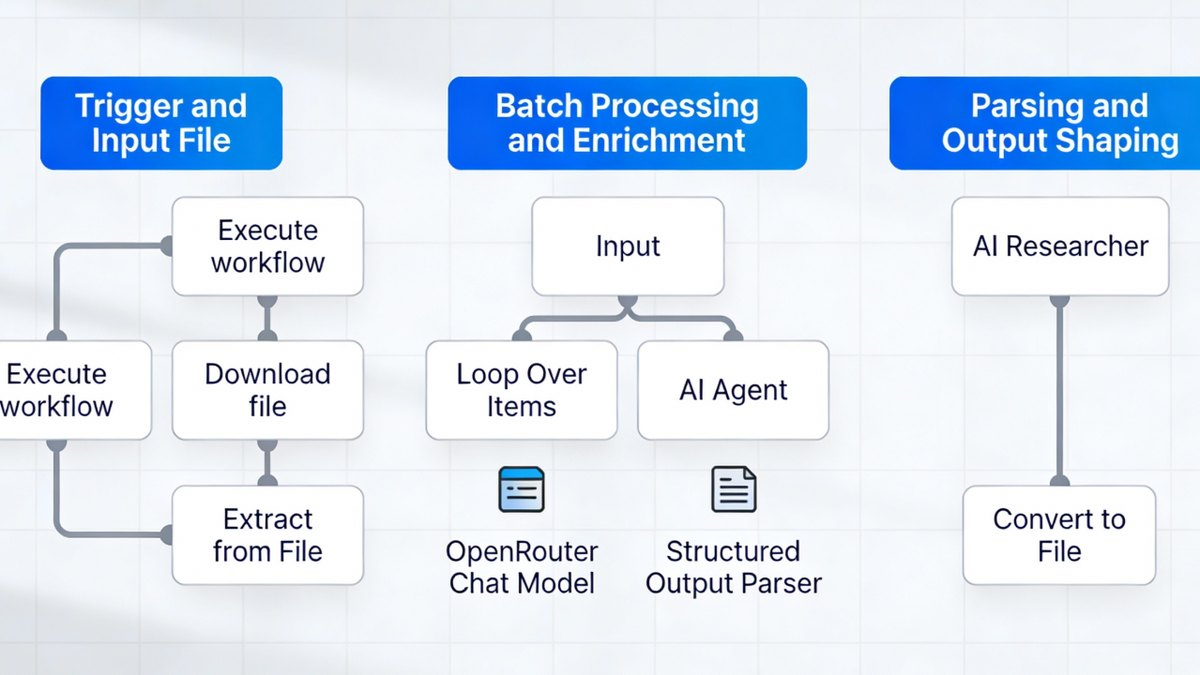
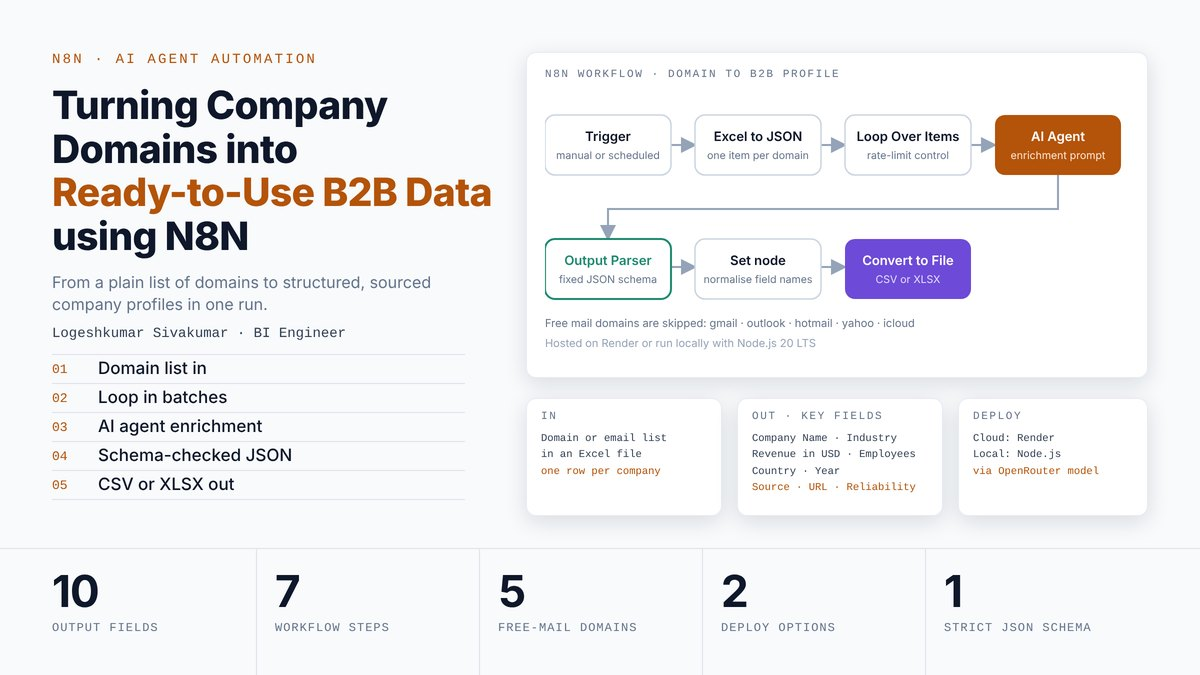
New intro headline, clickable article and report cards, updated N8N cover

diff --git a/index.html b/index.html
@@ -4,8 +4,8 @@
   <meta charset="UTF-8" />
   <meta name="viewport" content="width=device-width, initial-scale=1.0" />
   <title>Logeshkumar Sivakumar | AI-enabled BI and deployment engineer</title>
-  <meta name="description" content="Logeshkumar Sivakumar: Business Intelligence Engineer who takes AI solutions from a customer problem to a working result, using Claude, Microsoft Fabric and Power BI." />
-  <link rel="stylesheet" href="css/style.css?v=9" />
+  <meta name="description" content="Logeshkumar Sivakumar: Business Intelligence Engineer who builds AI solutions from his own ideas and industry use cases using Claude, Microsoft Fabric and Power BI, and has presented 50+ Inforiver and Fabric Plan demos and POCs to customers." />
+  <link rel="stylesheet" href="css/style.css?v=15" />
 </head>
 <body>
   <a class="skip" href="#main">Skip to content</a>
@@ -34,8 +34,8 @@
           <div class="avatar"><img src="assets/profile.jpg?v=3" alt="" onerror="this.replaceWith('LS')" /></div>
           <div><strong>Logeshkumar Sivakumar</strong><span>Business Intelligence Engineer · Lumel Technologies</span></div>
         </div>
-        <h1>I take AI solutions from a customer's problem to a working result.</h1>
-        <p class="tag">I build with Claude and check every result before it reaches a customer. I have been sole technical presenter on 50+ demos and POCs, technical contact on a Cognos to Power BI migration, and built a Fabric sales report that cut manual reporting by about 70%. <span style="white-space:nowrap">DP-600</span> and <span style="white-space:nowrap">DP-700</span> certified.</p>
+        <h1>I build AI solutions from my own ideas, and I can demo and support them with customers.</h1>
+        <p class="tag">I build with Claude and check every result before I use it. I have been sole technical presenter on 50+ Inforiver and Fabric Plan demos and POCs, technical contact on a Cognos to Power BI migration, and built a Fabric sales report that cut manual reporting by about 70%. <span style="white-space:nowrap">DP-600</span> and <span style="white-space:nowrap">DP-700</span> certified.</p>
         <p class="hire"><strong>Hire me as</strong> <span>AI-enabled BI engineer</span> <span>AI deployment engineer</span></p>
         <div class="cta">
           <a href="#contact" class="btn solid">Get in touch</a>
@@ -118,9 +118,9 @@
       <h3 class="sub dash">Power BI dashboards</h3>
       <p class="note"><strong>Created before the AI era.</strong> Every visual, idea and feature in these dashboards was designed by hand, learned from LinkedIn, YouTube, blogs, a Udemy course and community forums.</p>
       <div class="grid g3 snap" role="region" aria-label="Power BI dashboards">
-        <article class="card mini"><time>Mar 2023</time><h3>IPL Player and Team Stats</h3><p class="muted">Player and team performance across IPL seasons, modelled from several sources.</p><a href="https://app.powerbi.com/view?r=eyJrIjoiMzg2MTMwNjYtOTdhOC00YjBkLWI5OTMtNGVkYzI2MjIxMDVlIiwidCI6ImRmODY3OWNkLWE4MGUtNDVkOC05OWFjLWM4M2VkN2ZmOTVhMCJ9" target="_blank" rel="noopener">View live report</a></article>
-        <article class="card mini"><time>Feb 2023</time><h3>Bangladesh Property Finder</h3><p class="muted">Property exploration with pricing trends, location filters and listing analytics.</p><a href="https://app.powerbi.com/view?r=eyJrIjoiMmRjMmRhMDMtMDQ4YS00MjVjLWE0M2MtYjY3OThlNDRmN2ViIiwidCI6ImRmODY3OWNkLWE4MGUtNDVkOC05OWFjLWM4M2VkN2ZmOTVhMCJ9" target="_blank" rel="noopener">View live report</a></article>
-        <article class="card mini"><time>Oct 2022</time><h3>FIFA World Cup Stats</h3><p class="muted">World Cup history: group stage to finals, top scorers, hosts and match outcomes.</p><a href="https://app.powerbi.com/view?r=eyJrIjoiOTI0YWNmNWMtMmM1ZS00YjE2LWFiNDQtZmJmYWJhODRkNTUyIiwidCI6ImRmODY3OWNkLWE4MGUtNDVkOC05OWFjLWM4M2VkN2ZmOTVhMCJ9" target="_blank" rel="noopener">View live report</a></article>
+        <article class="card mini"><time>Mar 2023</time><h3><a class="stretch" href="https://app.powerbi.com/view?r=eyJrIjoiMzg2MTMwNjYtOTdhOC00YjBkLWI5OTMtNGVkYzI2MjIxMDVlIiwidCI6ImRmODY3OWNkLWE4MGUtNDVkOC05OWFjLWM4M2VkN2ZmOTVhMCJ9" target="_blank" rel="noopener">IPL Player and Team Stats</a></h3><p class="muted">Player and team performance across IPL seasons, modelled from several sources.</p><span class="go" aria-hidden="true">View live report</span></article>
+        <article class="card mini"><time>Feb 2023</time><h3><a class="stretch" href="https://app.powerbi.com/view?r=eyJrIjoiMmRjMmRhMDMtMDQ4YS00MjVjLWE0M2MtYjY3OThlNDRmN2ViIiwidCI6ImRmODY3OWNkLWE4MGUtNDVkOC05OWFjLWM4M2VkN2ZmOTVhMCJ9" target="_blank" rel="noopener">Bangladesh Property Finder</a></h3><p class="muted">Property exploration with pricing trends, location filters and listing analytics.</p><span class="go" aria-hidden="true">View live report</span></article>
+        <article class="card mini"><time>Oct 2022</time><h3><a class="stretch" href="https://app.powerbi.com/view?r=eyJrIjoiOTI0YWNmNWMtMmM1ZS00YjE2LWFiNDQtZmJmYWJhODRkNTUyIiwidCI6ImRmODY3OWNkLWE4MGUtNDVkOC05OWFjLWM4M2VkN2ZmOTVhMCJ9" target="_blank" rel="noopener">FIFA World Cup Stats</a></h3><p class="muted">World Cup history: group stage to finals, top scorers, hosts and match outcomes.</p><span class="go" aria-hidden="true">View live report</span></article>
       </div>
 
       <details class="more">
@@ -132,25 +132,25 @@
           <p>End-to-end pre-webinar campaigns: segmented HTML email broadcasts, personal email sequences, LinkedIn and Reddit posts, webinar polls and post-event workflows. Used across 3 Lumel product webinars.</p>
         </article>
         <article class="card mini">
-          <h3>Company Domains to B2B Data (n8n)</h3>
+          <h3><a class="stretch" href="https://github.com/Logeshkumar-10/Projects" target="_blank" rel="noopener">Company Domains to B2B Data (n8n)</a></h3>
           <p>An n8n workflow that takes a list of company domains and returns enriched, ready-to-use B2B account data.</p>
-          <a href="https://github.com/Logeshkumar-10/Projects" target="_blank" rel="noopener">Workflow on GitHub</a>
+          <span class="go" aria-hidden="true">Workflow on GitHub</span>
         </article>
         </div>
         <h3 class="sub">More Power BI dashboards</h3>
         <div class="grid g4">
-        <article class="card mini"><time>Sep 2022</time><h3>PwC Customer Churn Analysis</h3><p class="muted">Churn risk and retention insights, from the PwC Power BI job simulation on Forage.</p><a href="https://app.powerbi.com/view?r=eyJrIjoiOTFhOTQwYjQtZWY2Ni00MzAxLWI1NDItYjI5ZTUyMzQyYzNjIiwidCI6ImRmODY3OWNkLWE4MGUtNDVkOC05OWFjLWM4M2VkN2ZmOTVhMCJ9" target="_blank" rel="noopener">View live report</a></article>
-        <article class="card mini"><time>Aug 2022</time><h3>PwC Call Centre Analysis</h3><p class="muted">Customer service performance, from the PwC Power BI job simulation on Forage.</p><a href="https://app.powerbi.com/view?r=eyJrIjoiMGRmNjBlMTMtYzE2Zi00NmM5LWE2YTAtNTBiMTMyMTVkYWYxIiwidCI6ImRmODY3OWNkLWE4MGUtNDVkOC05OWFjLWM4M2VkN2ZmOTVhMCJ9" target="_blank" rel="noopener">View live report</a></article>
-        <article class="card mini"><time>Aug 2022</time><h3>Maven Space Mission Dashboard</h3><p class="muted">Global space missions: launch success rates and agencies. Maven Analytics challenge.</p><a href="https://app.powerbi.com/view?r=eyJrIjoiMWE4YmY2ZDItNDZiNS00NzlhLWJjZjYtYTgxZjE4YWM3YTE0IiwidCI6ImRmODY3OWNkLWE4MGUtNDVkOC05OWFjLWM4M2VkN2ZmOTVhMCJ9" target="_blank" rel="noopener">View live report</a></article>
-        <article class="card mini"><time>Jul 2022</time><h3>World Billionaires 2022</h3><p class="muted">Wealth distribution by industry and geography. Onyx Data challenge.</p><a href="https://app.powerbi.com/view?r=eyJrIjoiNGI3NmZkMjYtYjdiYS00MWFhLWJiM2EtMDRiZWZlNmY4NWRjIiwidCI6ImRmODY3OWNkLWE4MGUtNDVkOC05OWFjLWM4M2VkN2ZmOTVhMCJ9" target="_blank" rel="noopener">View live report</a></article>
-        <article class="card mini"><time>Apr 2022</time><h3>US E-Commerce Dashboard</h3><p class="muted">Sales trends, category performance and regional breakdown.</p><a href="https://app.powerbi.com/view?r=eyJrIjoiNzAxNGM1Y2MtMGRiNC00NWU3LWI4YTYtOGQ1NGI2NDQ5YzcyIiwidCI6ImRmODY3OWNkLWE4MGUtNDVkOC05OWFjLWM4M2VkN2ZmOTVhMCJ9" target="_blank" rel="noopener">View live report</a></article>
+        <article class="card mini"><time>Sep 2022</time><h3><a class="stretch" href="https://app.powerbi.com/view?r=eyJrIjoiOTFhOTQwYjQtZWY2Ni00MzAxLWI1NDItYjI5ZTUyMzQyYzNjIiwidCI6ImRmODY3OWNkLWE4MGUtNDVkOC05OWFjLWM4M2VkN2ZmOTVhMCJ9" target="_blank" rel="noopener">PwC Customer Churn Analysis</a></h3><p class="muted">Churn risk and retention insights, from the PwC Power BI job simulation on Forage.</p><span class="go" aria-hidden="true">View live report</span></article>
+        <article class="card mini"><time>Aug 2022</time><h3><a class="stretch" href="https://app.powerbi.com/view?r=eyJrIjoiMGRmNjBlMTMtYzE2Zi00NmM5LWE2YTAtNTBiMTMyMTVkYWYxIiwidCI6ImRmODY3OWNkLWE4MGUtNDVkOC05OWFjLWM4M2VkN2ZmOTVhMCJ9" target="_blank" rel="noopener">PwC Call Centre Analysis</a></h3><p class="muted">Customer service performance, from the PwC Power BI job simulation on Forage.</p><span class="go" aria-hidden="true">View live report</span></article>
+        <article class="card mini"><time>Aug 2022</time><h3><a class="stretch" href="https://app.powerbi.com/view?r=eyJrIjoiMWE4YmY2ZDItNDZiNS00NzlhLWJjZjYtYTgxZjE4YWM3YTE0IiwidCI6ImRmODY3OWNkLWE4MGUtNDVkOC05OWFjLWM4M2VkN2ZmOTVhMCJ9" target="_blank" rel="noopener">Maven Space Mission Dashboard</a></h3><p class="muted">Global space missions: launch success rates and agencies. Maven Analytics challenge.</p><span class="go" aria-hidden="true">View live report</span></article>
+        <article class="card mini"><time>Jul 2022</time><h3><a class="stretch" href="https://app.powerbi.com/view?r=eyJrIjoiNGI3NmZkMjYtYjdiYS00MWFhLWJiM2EtMDRiZWZlNmY4NWRjIiwidCI6ImRmODY3OWNkLWE4MGUtNDVkOC05OWFjLWM4M2VkN2ZmOTVhMCJ9" target="_blank" rel="noopener">World Billionaires 2022</a></h3><p class="muted">Wealth distribution by industry and geography. Onyx Data challenge.</p><span class="go" aria-hidden="true">View live report</span></article>
+        <article class="card mini"><time>Apr 2022</time><h3><a class="stretch" href="https://app.powerbi.com/view?r=eyJrIjoiNzAxNGM1Y2MtMGRiNC00NWU3LWI4YTYtOGQ1NGI2NDQ5YzcyIiwidCI6ImRmODY3OWNkLWE4MGUtNDVkOC05OWFjLWM4M2VkN2ZmOTVhMCJ9" target="_blank" rel="noopener">US E-Commerce Dashboard</a></h3><p class="muted">Sales trends, category performance and regional breakdown.</p><span class="go" aria-hidden="true">View live report</span></article>
 </div>
         <h3 class="sub">Full collections</h3>
         <div class="grid g4">
-        <article class="card mini"><span class="src">13 reports</span><h3>Power BI Dashboards</h3><p class="muted">Every report with its PBIX file, PDF and source data.</p><a href="https://github.com/Logeshkumar-10/Power-BI-Dashboards" target="_blank" rel="noopener">Open on GitHub</a></article>
-        <article class="card mini"><span class="src">7 workbooks · 2021 to 2022</span><h3>Tableau Dashboards</h3><p class="muted">Tableau workbooks with a PDF walkthrough of each.</p><a href="https://github.com/Logeshkumar-10/Tableau-Dashboards" target="_blank" rel="noopener">Open on GitHub</a></article>
-        <article class="card mini"><span class="src">9 workbooks · 2021 to 2022</span><h3>Excel Projects</h3><p class="muted">Where my data career started: CGPA calculators, result analysis and an attendance tracker.</p><a href="https://github.com/Logeshkumar-10/excel-projects" target="_blank" rel="noopener">Open on GitHub</a></article>
-        <article class="card mini"><span class="src">Public profile</span><h3>Maven Showcase</h3><p class="muted">My dashboards on Maven Analytics.</p><a href="https://mavenshowcase.com/profile/68412380-5091-70e5-c195-c8a36727fc9a" target="_blank" rel="noopener">Visit profile</a></article>
+        <article class="card mini"><span class="src">13 reports</span><h3><a class="stretch" href="https://github.com/Logeshkumar-10/Power-BI-Dashboards" target="_blank" rel="noopener">Power BI Dashboards</a></h3><p class="muted">Every report with its PBIX file, PDF and source data.</p><span class="go" aria-hidden="true">Open on GitHub</span></article>
+        <article class="card mini"><span class="src">7 workbooks · 2021 to 2022</span><h3><a class="stretch" href="https://github.com/Logeshkumar-10/Tableau-Dashboards" target="_blank" rel="noopener">Tableau Dashboards</a></h3><p class="muted">Tableau workbooks with a PDF walkthrough of each.</p><span class="go" aria-hidden="true">Open on GitHub</span></article>
+        <article class="card mini"><span class="src">9 workbooks · 2021 to 2022</span><h3><a class="stretch" href="https://github.com/Logeshkumar-10/excel-projects" target="_blank" rel="noopener">Excel Projects</a></h3><p class="muted">Where my data career started: CGPA calculators, result analysis and an attendance tracker.</p><span class="go" aria-hidden="true">Open on GitHub</span></article>
+        <article class="card mini"><span class="src">Public profile</span><h3><a class="stretch" href="https://mavenshowcase.com/profile/68412380-5091-70e5-c195-c8a36727fc9a" target="_blank" rel="noopener">Maven Showcase</a></h3><p class="muted">My dashboards on Maven Analytics.</p><span class="go" aria-hidden="true">Visit profile</span></article>
         </div>
         <h3 class="sub">Where it started: B.E. Mechanical Engineering</h3>
         <p class="lead">Three projects from Sona College of Technology, built before AI coding assistants were part of student workflows. We read the papers and documentation and worked out the code ourselves. The code is private for now, so ask and I will walk you through any of them.</p>
@@ -243,9 +243,9 @@
       <p class="lead">Practical notes on BI, Microsoft Fabric, AI tooling and enterprise analytics.</p>
       <!-- articles:start (generated by blogs/build_articles.py) -->
       <div class="grid g3 snap" role="region" aria-label="Latest articles">
-        <article class="card proj"><img src="assets/blog/fabric-foundations-8/cover.jpg" width="1200" height="675" loading="lazy" alt="" /><div><span class="muted">Fabric Foundations · Part 8 · November 22, 2026 · 3 min read</span><h3>Microsoft Fabric Mirroring: Stop Building Pipelines for Data You Only Need to Copy</h3><p>Most Microsoft Fabric migration meetings open the same way. Someone sketches a dozen pipelines on a whiteboard, one per source system, before anyone asks whether each…</p><a href="blogs/fabric-foundations-8.html">Read article</a></div></article>
-        <article class="card proj"><img src="assets/blog/an-al-assisted-workflow-for-real-business-reporting-beyond/cover.jpg" width="1200" height="675" loading="lazy" alt="" /><div><span class="muted">Article · October 9, 2026 · 9 min read</span><h3>An AI-Assisted Workflow for Real Business Reporting: Beyond Dashboards</h3><p>One fictional company, nine departments, every report written for a named audience and a real decision. Here is the idea, the process, and where AI did the heavy lifting.</p><a href="blogs/an-al-assisted-workflow-for-real-business-reporting-beyond.html">Read article</a></div></article>
-        <article class="card proj"><img src="assets/blog/turning-company-domains-into-ready-to-use-b2b-data-using-n8n/cover.jpg" width="1200" height="675" loading="lazy" alt="" /><div><span class="muted">Article · January 1, 2026 · 4 min read</span><h3>Turning Company Domains into Ready-to-Use B2B Data using N8N</h3><p>Manually turning a list of domains or emails into B2B company details is slow, repetitive, and hard to keep consistent. Manual research doesn’t scale. To avoid all that…</p><a href="blogs/turning-company-domains-into-ready-to-use-b2b-data-using-n8n.html">Read article</a></div></article>
+        <article class="card proj"><img src="assets/blog/fabric-foundations-8/cover.jpg" width="1200" height="675" loading="lazy" alt="" /><div><span class="muted">Fabric Foundations · Part 8 · November 22, 2026 · 3 min read</span><h3><a class="stretch" href="blogs/fabric-foundations-8.html">Microsoft Fabric Mirroring: Stop Building Pipelines for Data You Only Need to Copy</a></h3><p>Most Microsoft Fabric migration meetings open the same way. Someone sketches a dozen pipelines on a whiteboard, one per source system, before anyone asks whether each…</p><span class="go" aria-hidden="true">Read article</span></div></article>
+        <article class="card proj"><img src="assets/blog/an-al-assisted-workflow-for-real-business-reporting-beyond/cover.jpg" width="1200" height="675" loading="lazy" alt="" /><div><span class="muted">Article · October 9, 2026 · 9 min read</span><h3><a class="stretch" href="blogs/an-al-assisted-workflow-for-real-business-reporting-beyond.html">An AI-Assisted Workflow for Real Business Reporting: Beyond Dashboards</a></h3><p>One fictional company, nine departments, every report written for a named audience and a real decision. Here is the idea, the process, and where AI did the heavy lifting.</p><span class="go" aria-hidden="true">Read article</span></div></article>
+        <article class="card proj"><img src="assets/blog/turning-company-domains-into-ready-to-use-b2b-data-using-n8n/cover.jpg" width="1200" height="675" loading="lazy" alt="" /><div><span class="muted">Article · January 1, 2026 · 4 min read</span><h3><a class="stretch" href="blogs/turning-company-domains-into-ready-to-use-b2b-data-using-n8n.html">Turning Company Domains into Ready-to-Use B2B Data using N8N</a></h3><p>Manually turning a list of domains or emails into B2B company details is slow, repetitive, and hard to keep consistent. Manual research doesn’t scale. To avoid all that…</p><span class="go" aria-hidden="true">Read article</span></div></article>
       </div>
       <details class="more"><summary>All 16 articles</summary>
         <div class="grid g2 lists"><div><h3>Fabric Foundations series</h3><ul class="plain"><li><a href="blogs/fabric-foundations-8.html">Microsoft Fabric Mirroring: Stop Building Pipelines for Data You Only Need to Copy</a><time>November 22, 2026</time></li><li><a href="blogs/fabric-foundations-7.html">SQL Database in Microsoft Fabric: The OLTP Store That Mirrors Itself into OneLake</a><time>November 10, 2026</time></li><li><a href="blogs/fabric-foundations-6.html">Fabric Warehouse: What it is for, and when read-only stops being enough</a><time>September 22, 2026</time></li><li><a href="blogs/fabric-foundations-5.html">The Four Delta Maintenance Operations That Separate Building a Pipeline from Running One</a><time>September 9, 2026</time></li><li><a href="blogs/fabric-foundations-4.html">What Your Delta Tables Actually Are: Parquet Internals and the Transaction Log in Microsoft Fabric</a><time>August 26, 2026</time></li><li><a href="blogs/fabric-foundations-3.html">Notebook in Microsoft Fabric: Know the PySpark Engine Before You Write the Code</a><time>August 12, 2026</time></li><li><a href="blogs/fabric-foundations-2.html">How the Microsoft Fabric Lakehouse Actually Works Inside</a><time>August 4, 2026</time></li><li><a href="blogs/fabric-foundations-1.html">Fabric Foundations: The Mental Model Behind Microsoft Fabric</a><time>July 29, 2026</time></li></ul></div><div><h3>More articles</h3><ul class="plain"><li><a href="blogs/a-ten-minute-measure-change-a-day-of-checking-see-every.html">A Ten-Minute Measure Change, a Day of Checking: See Every Report It Touches with Obsidian and Power BI</a><time>October 28, 2026</time></li><li><a href="blogs/an-al-assisted-workflow-for-real-business-reporting-beyond.html">An AI-Assisted Workflow for Real Business Reporting: Beyond Dashboards</a><time>October 9, 2026</time></li><li><a href="blogs/control-what-each-user-sees-row-level-security-patterns-in.html">Control What Each User Sees: Row-Level Security Patterns in Power BI</a><time>June 18, 2026</time></li><li><a href="blogs/enterprise-power-bi-demo-automation-with-claude-dataset.html">Enterprise Power BI Demo Automation with Claude - Dataset Generation, Semantic Modelling, and DAX in One Session</a><time>May 12, 2026</time></li><li><a href="blogs/turning-company-domains-into-ready-to-use-b2b-data-using-n8n.html">Turning Company Domains into Ready-to-Use B2B Data using N8N</a><time>January 1, 2026</time></li><li><a href="blogs/elevate-your-data-models-best-practice-analyzer-in.html">Elevate Your Data Models: Best Practice Analyzer in Microsoft Fabric Notebooks</a><time>July 1, 2025</time></li><li><a href="blogs/highlight-the-past-not-just-the-present-dynamic-6-month.html">Highlight the Past, Not Just the Present -Dynamic 6-Month Views in Power BI</a><time>June 13, 2025</time></li><li><a href="blogs/blog-02-power-bi-data-modeling.html">Building a Solid Foundation: Best Practices for Power BI Data Modeling</a><time>April 5, 2025</time></li></ul></div></div>

diff --git a/css/style.css b/css/style.css
@@ -211,3 +211,25 @@ html { scroll-padding-bottom: var(--dock); }
 
 /* the hero fills the first screen only on wide landscape windows; on tall phone screens (even in desktop-site mode) it would leave blank bands above and below */
 @media (min-width: 981px) and (orientation: landscape) { #hero { min-height: calc(100vh - 60px); } }
+
+/* whole card opens its content: the title link is stretched over the card, the visible "go" label is just a hint */
+.card:has(.stretch) { position: relative; transition: box-shadow .2s, transform .2s; }
+.stretch { color: var(--ink); text-decoration: none; }
+.stretch::after { content: ""; position: absolute; inset: 0; z-index: 1; border-radius: var(--r); }
+.card:has(.stretch):hover { box-shadow: 0 14px 34px rgba(80, 60, 120, .18); transform: translateY(-2px); }
+.card:has(.stretch):hover .stretch { color: var(--accent); text-decoration: underline; text-underline-offset: 3px; }
+.card:has(.stretch:focus-visible) { outline: 3px solid var(--accent); outline-offset: 3px; }
+.stretch:focus-visible { outline: none; }
+.go { font-weight: 700; color: var(--accent); margin-top: auto; padding-top: 6px; }
+.go::after { content: " \2192"; }
+@media (prefers-reduced-motion: reduce) { .card:has(.stretch):hover { transform: none; } }
+
+/* short laptop screens: tighten the intro so the buttons stay on the first screen */
+@media (min-width: 981px) and (max-height: 780px) {
+  #hero { padding-top: 28px; }
+  h1 { font-size: clamp(34px, 3.5vw, 44px); }
+  .who { margin-bottom: 16px; }
+  .hero p.tag { font-size: 18px; }
+  .hire { margin-top: 14px; }
+  .hero .cta { margin: 20px 0; }
+}
